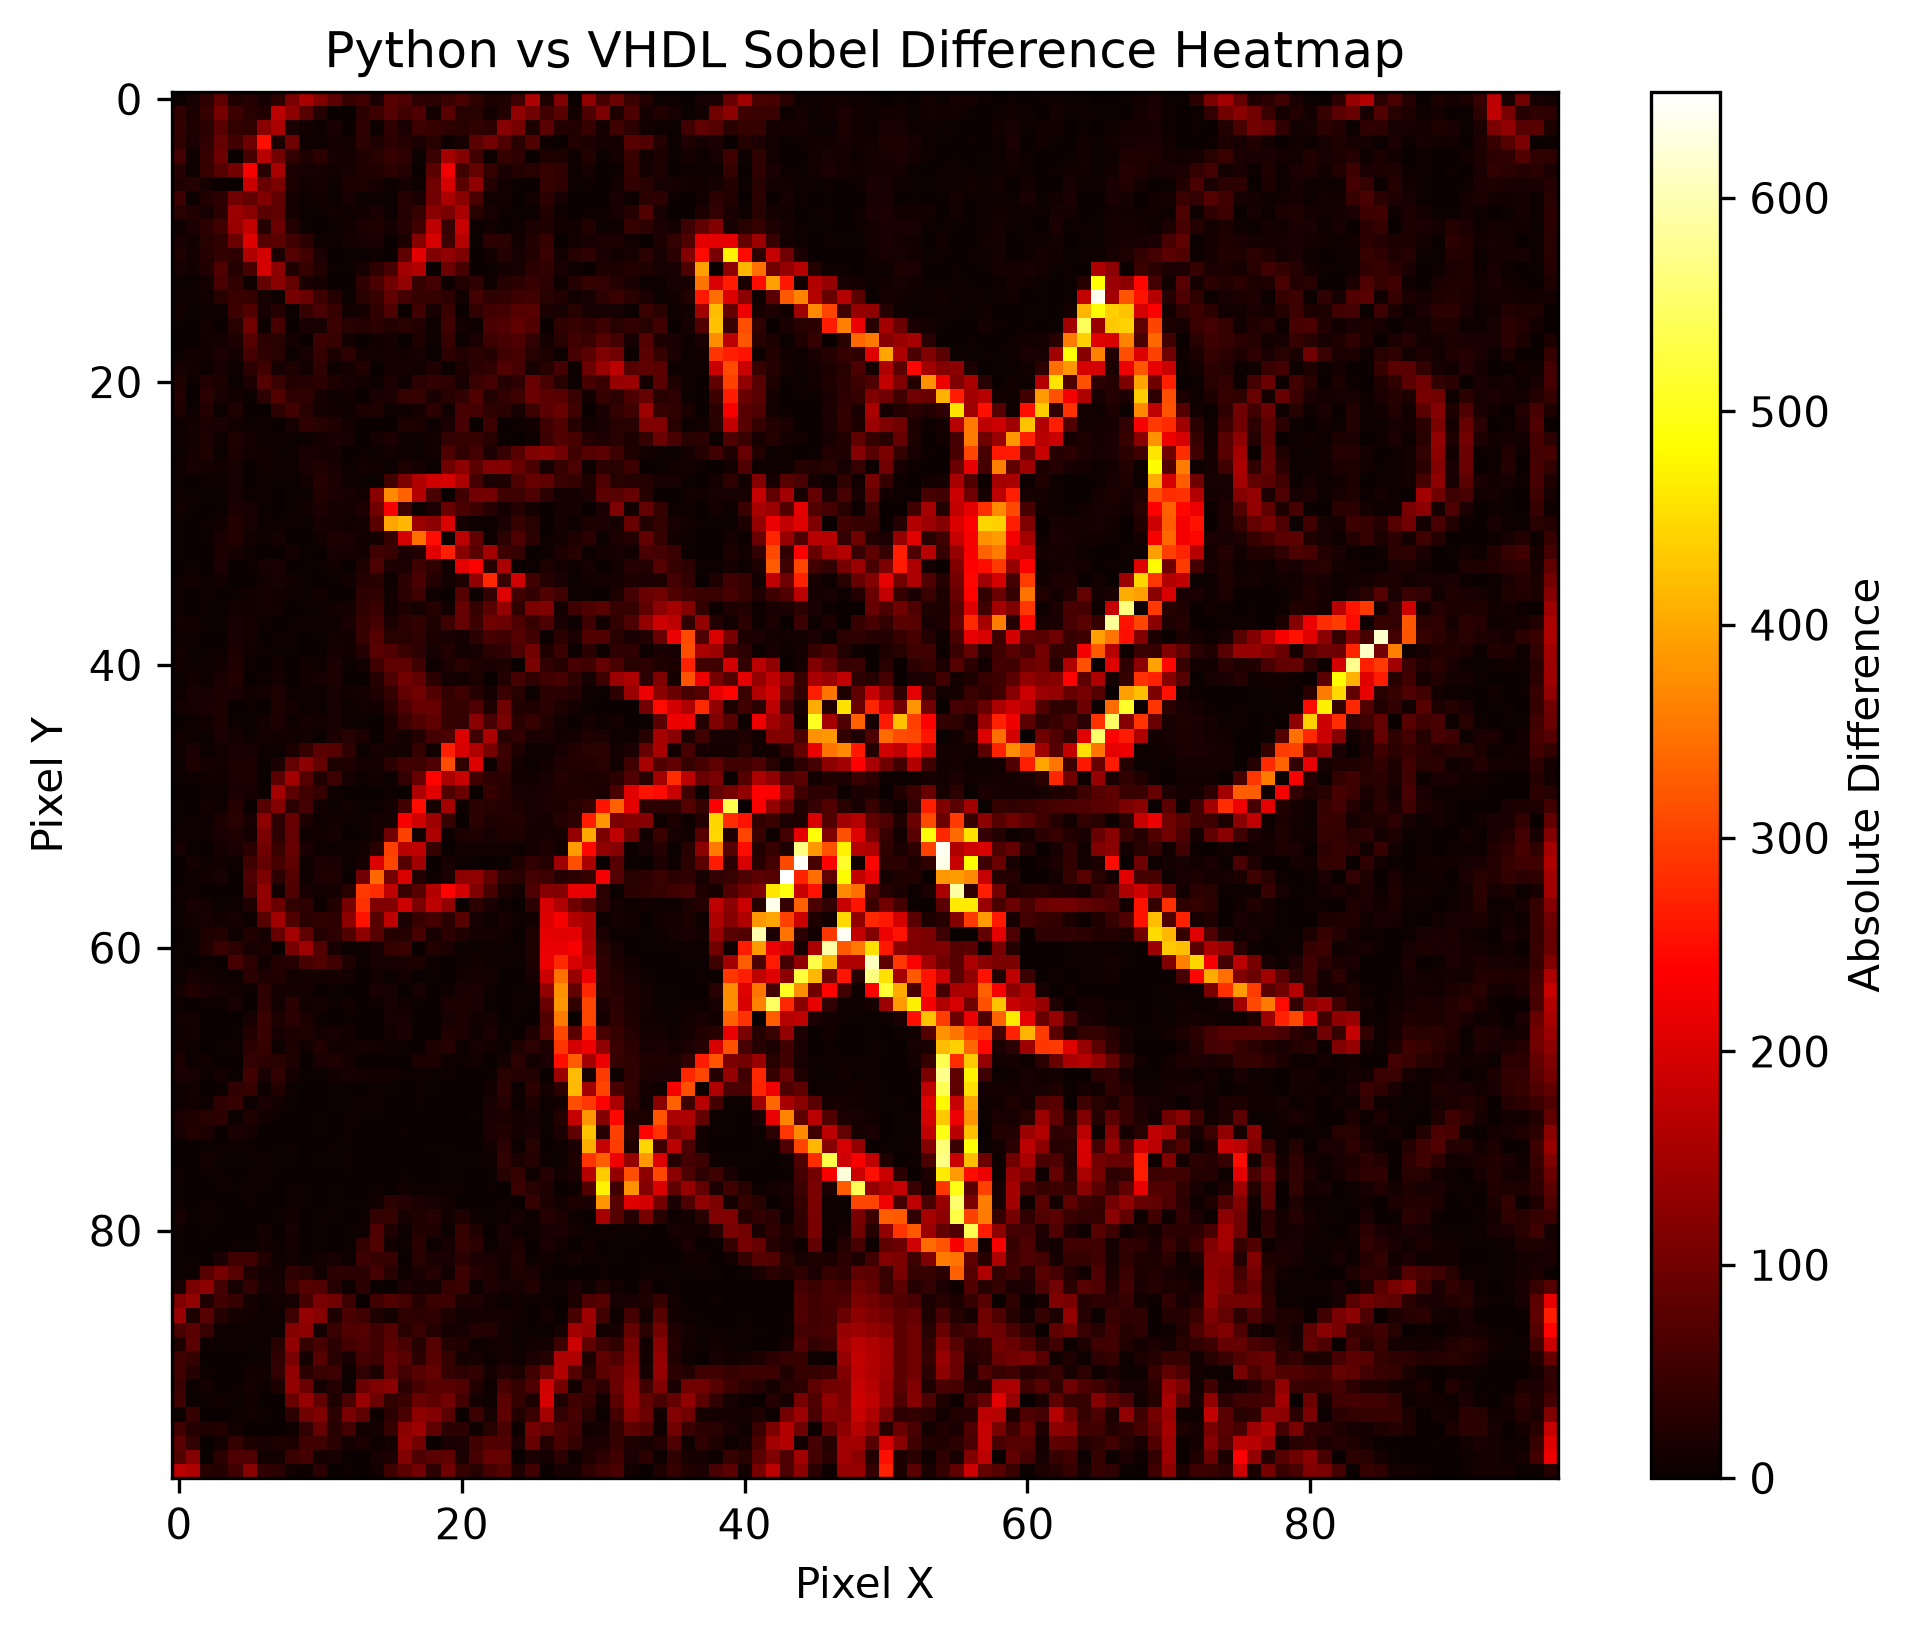
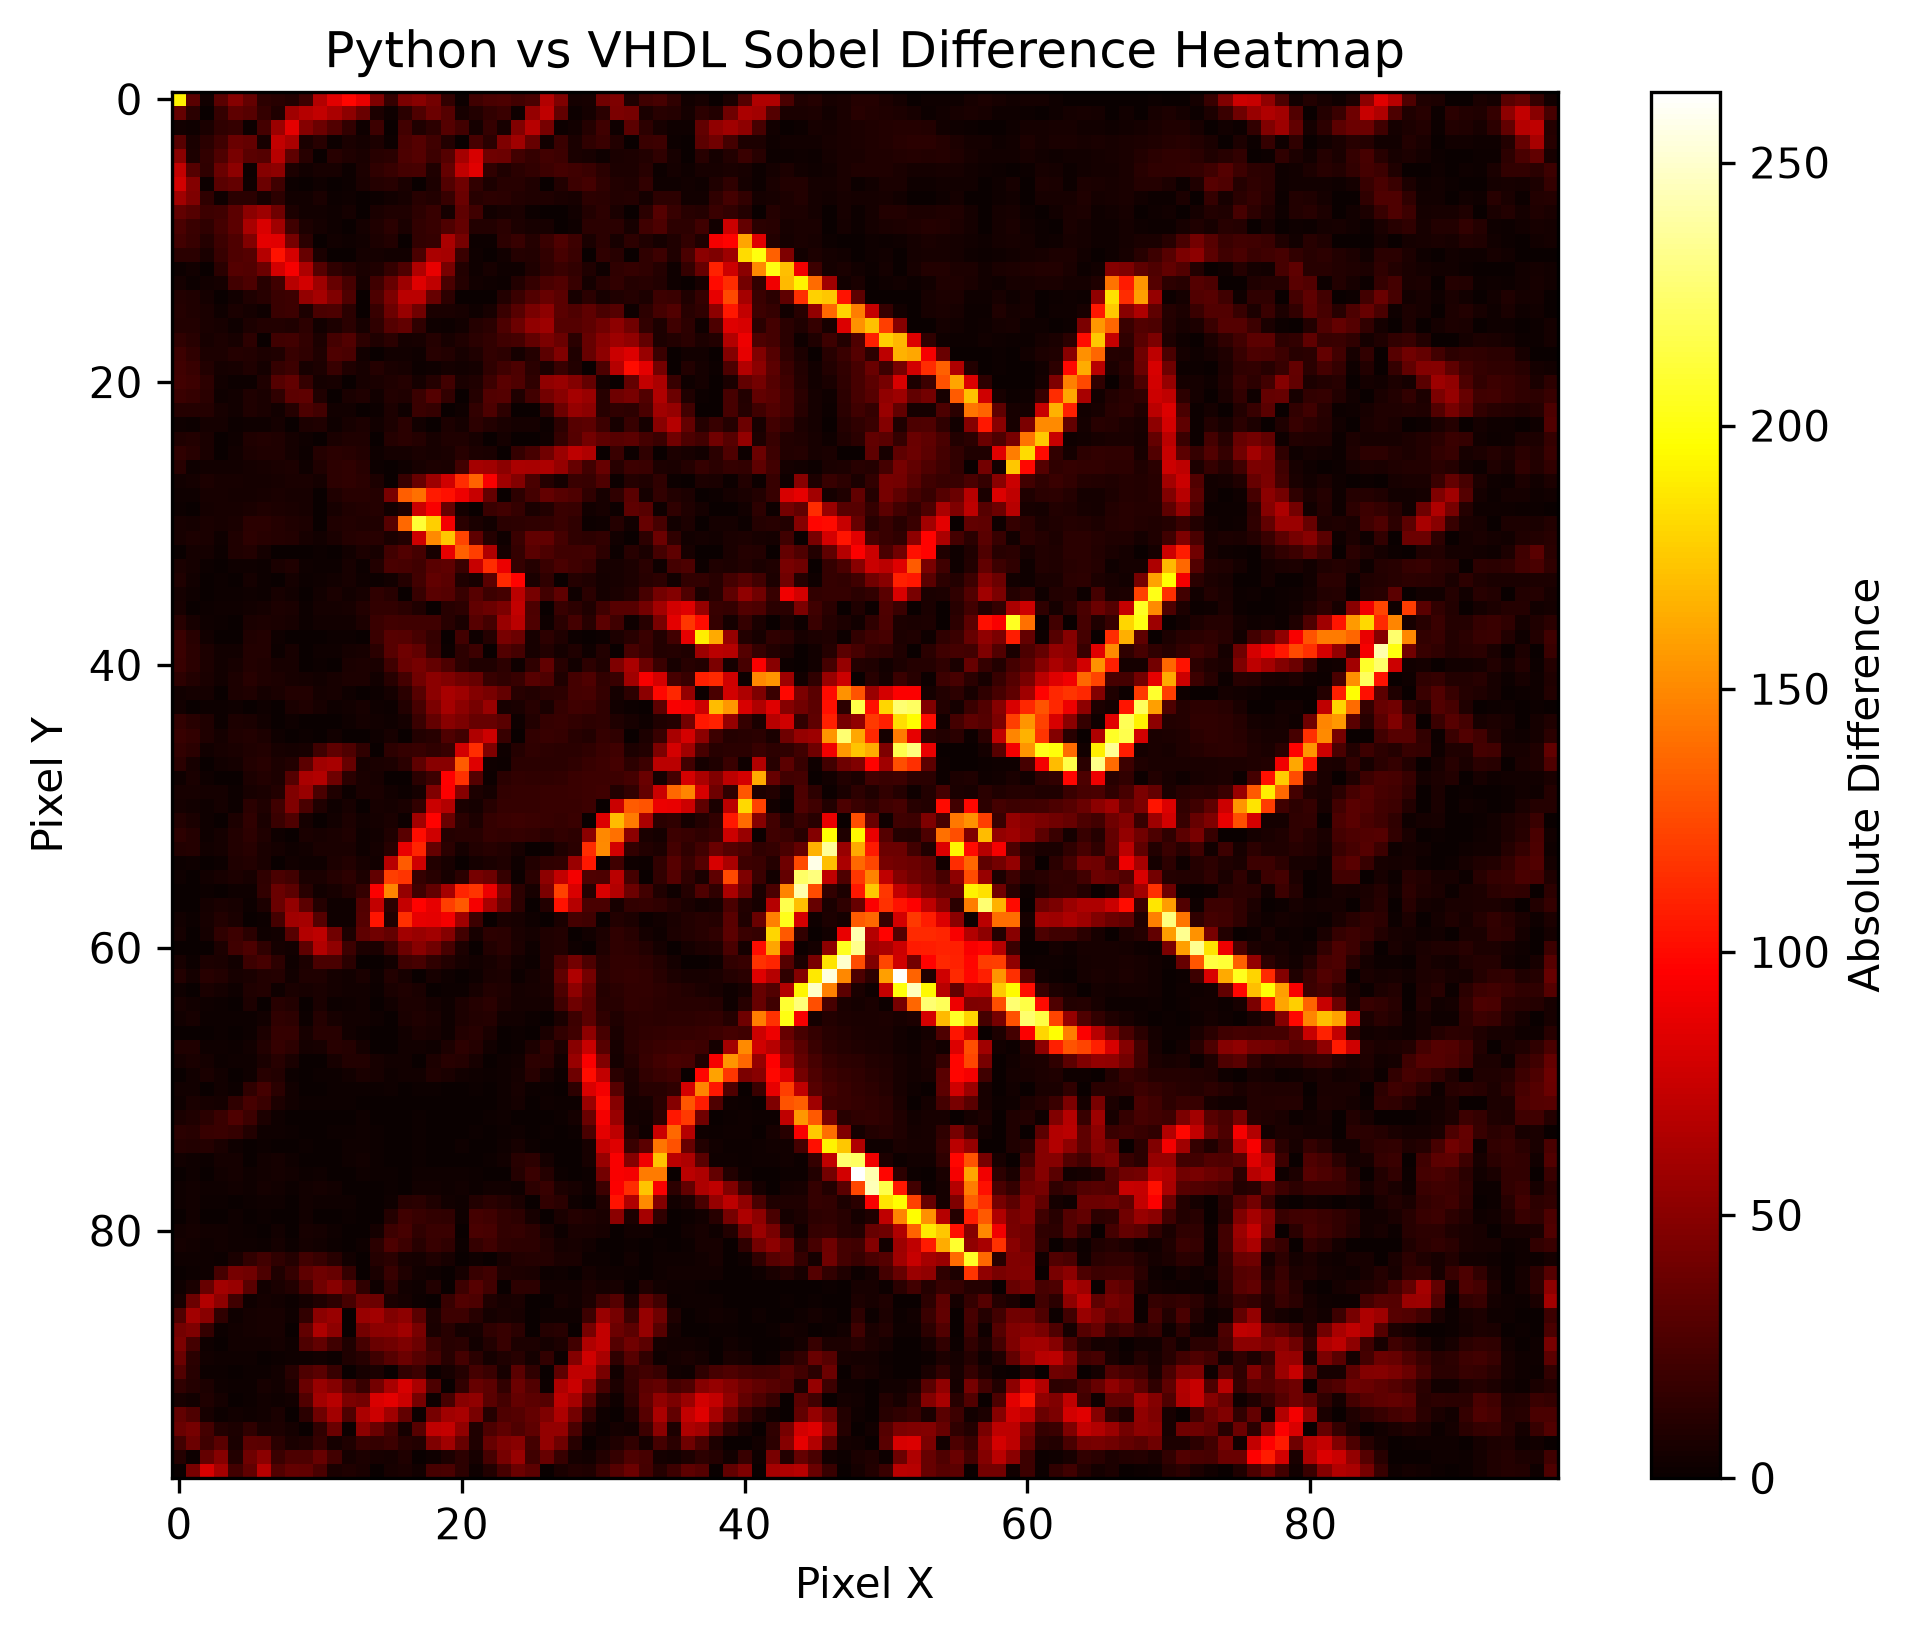
fixed VHDL pipeline alignment and updated results

diff --git a/Compare_Results.py b/Compare_Results.py
@@ -1,10 +1,22 @@
 import numpy as np
+import matplotlib.pyplot as plt
+from PIL import Image
+
+
+# ============================================
+# 1. READ PYTHON AND VHDL RESULTS
+# ============================================
 
 # Read Python reference results
 python_ref = np.loadtxt("python_ref.txt")
 
-# Read VHDL results
+# Read VHDL results generated by Vivado
 vhdl_ref = np.loadtxt("SobelEdgeVHDL.txt")
+
+
+# ============================================
+# 2. RESHAPE THE RESULTS
+# ============================================
 
 # Python gives a 100x100 image
 python_image = python_ref.reshape(100, 100)
@@ -12,7 +24,12 @@ python_image = python_ref.reshape(100, 100)
 # VHDL gives only the valid 98x98 pixels
 vhdl_image = vhdl_ref.reshape(98, 98)
 
-# Take the same 98x98 interior from the Python result
+
+# ============================================
+# 3. COMPARE PYTHON AND VHDL
+# ============================================
+
+# Take the same 98x98 interior from Python
 python_interior = python_image[1:99, 1:99]
 
 # Calculate absolute difference
@@ -21,8 +38,13 @@ difference = np.abs(python_interior - vhdl_image)
 # Calculate total error
 total_error = np.sum(difference)
 
-# MAE over the 100x100 image as required by the project
+# MAE over the complete 100x100 image
 mae = total_error / 10000
+
+
+# ============================================
+# 4. PRINT COMPARISON RESULTS
+# ============================================
 
 print("====================================")
 print("   PYTHON vs VHDL SOBEL COMPARISON")
@@ -35,46 +57,61 @@ print("Total Error:", total_error)
 print("MAE:", mae)
 
 print("Maximum Difference:", np.max(difference))
+
 print("Average Difference on valid 98x98 pixels:",
       np.mean(difference))
 
 print("====================================")
-print("Comparison completed successfully!")
-print("====================================")
 
 
-import matplotlib.pyplot as plt
+# ============================================
+# 5. CREATE DIFFERENCE HEATMAP
+# ============================================
 
-# Display the difference matrix as a heatmap
 plt.figure(figsize=(8, 6))
+
 plt.imshow(difference, cmap="hot")
+
 plt.colorbar(label="Absolute Difference")
+
 plt.title("Python vs VHDL Sobel Difference Heatmap")
+
 plt.xlabel("Pixel X")
 plt.ylabel("Pixel Y")
 
-# Save the heatmap
-plt.savefig("difference_heatmap.png", dpi=300, bbox_inches="tight")
+plt.savefig(
+    "difference_heatmap.png",
+    dpi=300,
+    bbox_inches="tight"
+)
 
-plt.show()
+plt.close()
 
 print("Difference heatmap created successfully!")
 
 
-from PIL import Image
+# ============================================
+# 6. CREATE VHDL EDGE IMAGE
+# ============================================
 
-# Create a 100x100 image for the VHDL result
+# Create a complete 100x100 image
 vhdl_full = np.zeros((100, 100), dtype=np.float32)
 
-# Put the 98x98 VHDL result in the valid interior
+# Put the valid 98x98 VHDL pixels
+# into the interior of the 100x100 image
 vhdl_full[1:99, 1:99] = vhdl_image
 
 # Convert values to displayable 8-bit pixels
-vhdl_display = np.clip(vhdl_full, 0, 255).astype(np.uint8)
+vhdl_display = np.clip(
+    vhdl_full,
+    0,
+    255
+).astype(np.uint8)
 
-# Save VHDL edge image
-Image.fromarray(vhdl_display).save("vhdl_edges.png")
+# Save the VHDL edge image
+Image.fromarray(vhdl_display).save(
+    "vhdl_edges.png"
+)
 
 print("VHDL edge image created successfully!")
-
-
+print("Comparison completed successfully!")
